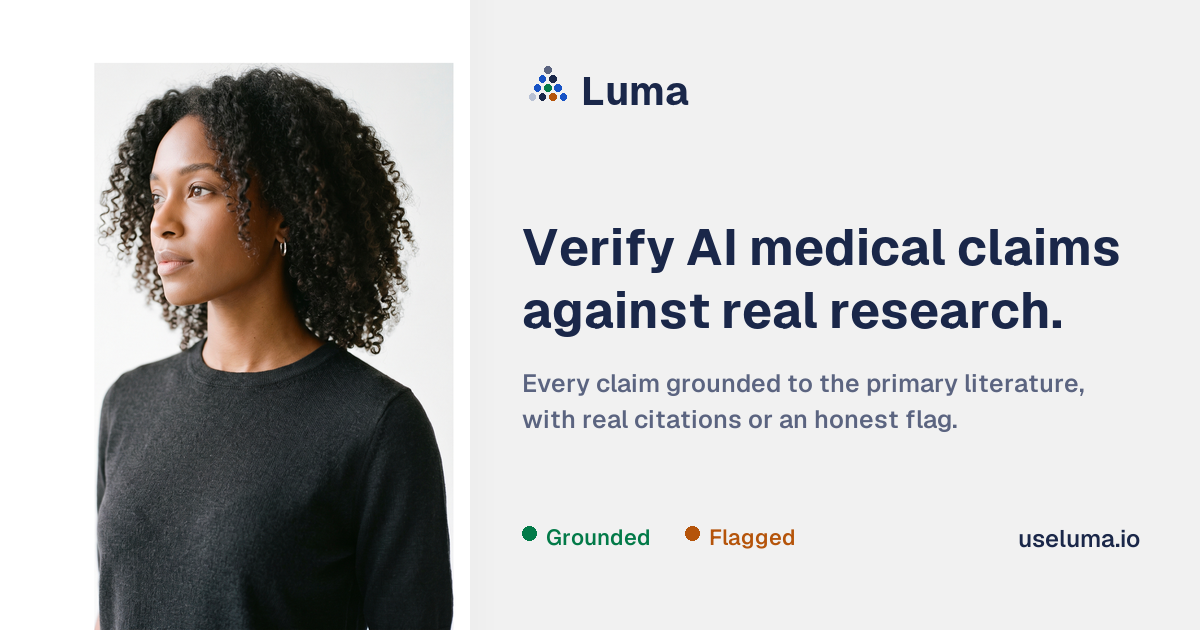
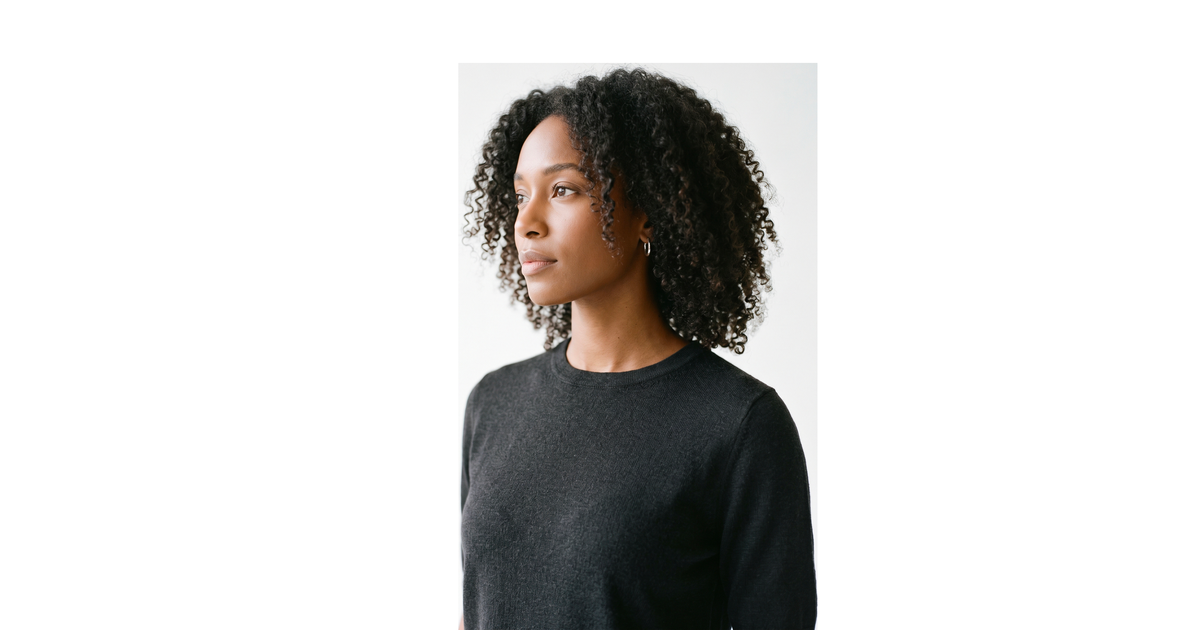
Simplify share card to portrait only; shorten OG title/description
Replaces the split text card with a clean full-bleed portrait (no text
or branding), and trims og:title (64->46 chars) and og:description
(187->114 chars) to fit social preview limits.

Claude-Session: https://claude.ai/code/session_01TRR6wf5aCxakV5MXN5yGam

diff --git a/web/app/layout.tsx b/web/app/layout.tsx
@@ -21,9 +21,9 @@ const fraunces = Fraunces({
   display: "swap",
 });
 
-const TITLE = "Luma — Source-Grounded, Verifiable AI for Biomedical Information";
+const TITLE = "Luma: Verifiable AI for Biomedical Information";
 const DESCRIPTION =
-  "Luma checks every claim in an AI medical answer against the primary literature. Real citations from PubMed, or an honest flag. Built for the people who cannot ship a fabricated reference.";
+  "Luma checks every claim in an AI medical answer against the primary literature. Real citations, or an honest flag.";
 
 export const metadata: Metadata = {
   metadataBase: new URL("https://www.useluma.io"),
